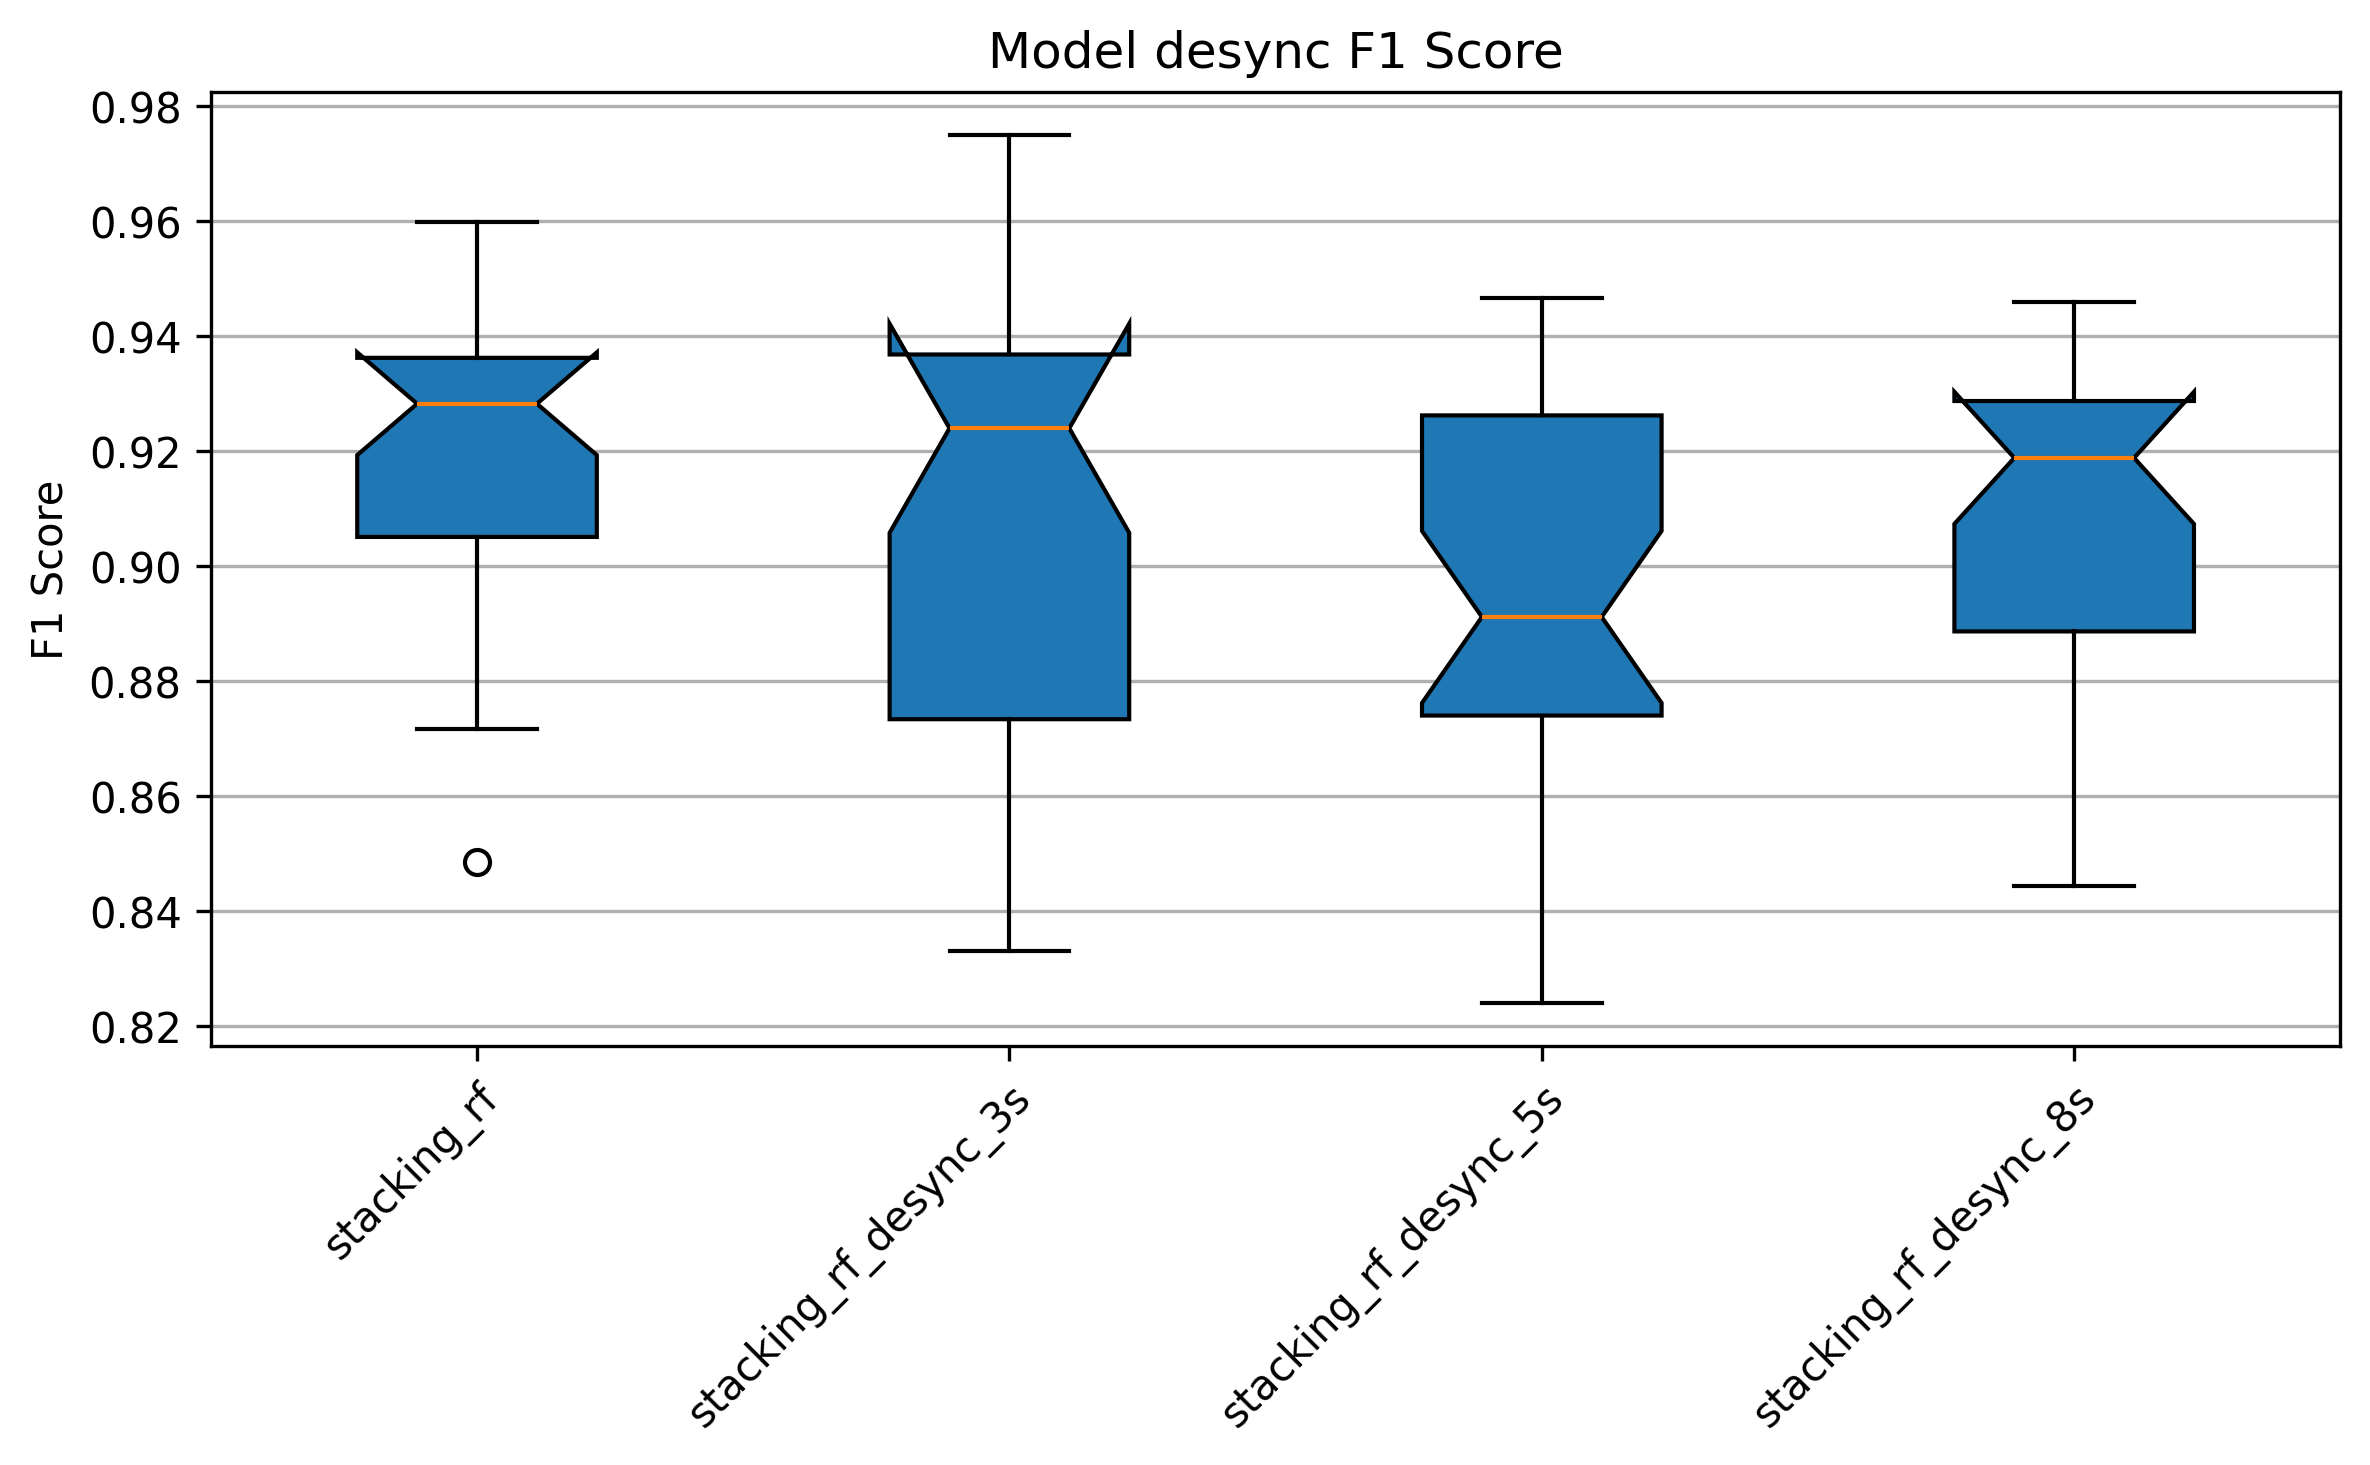
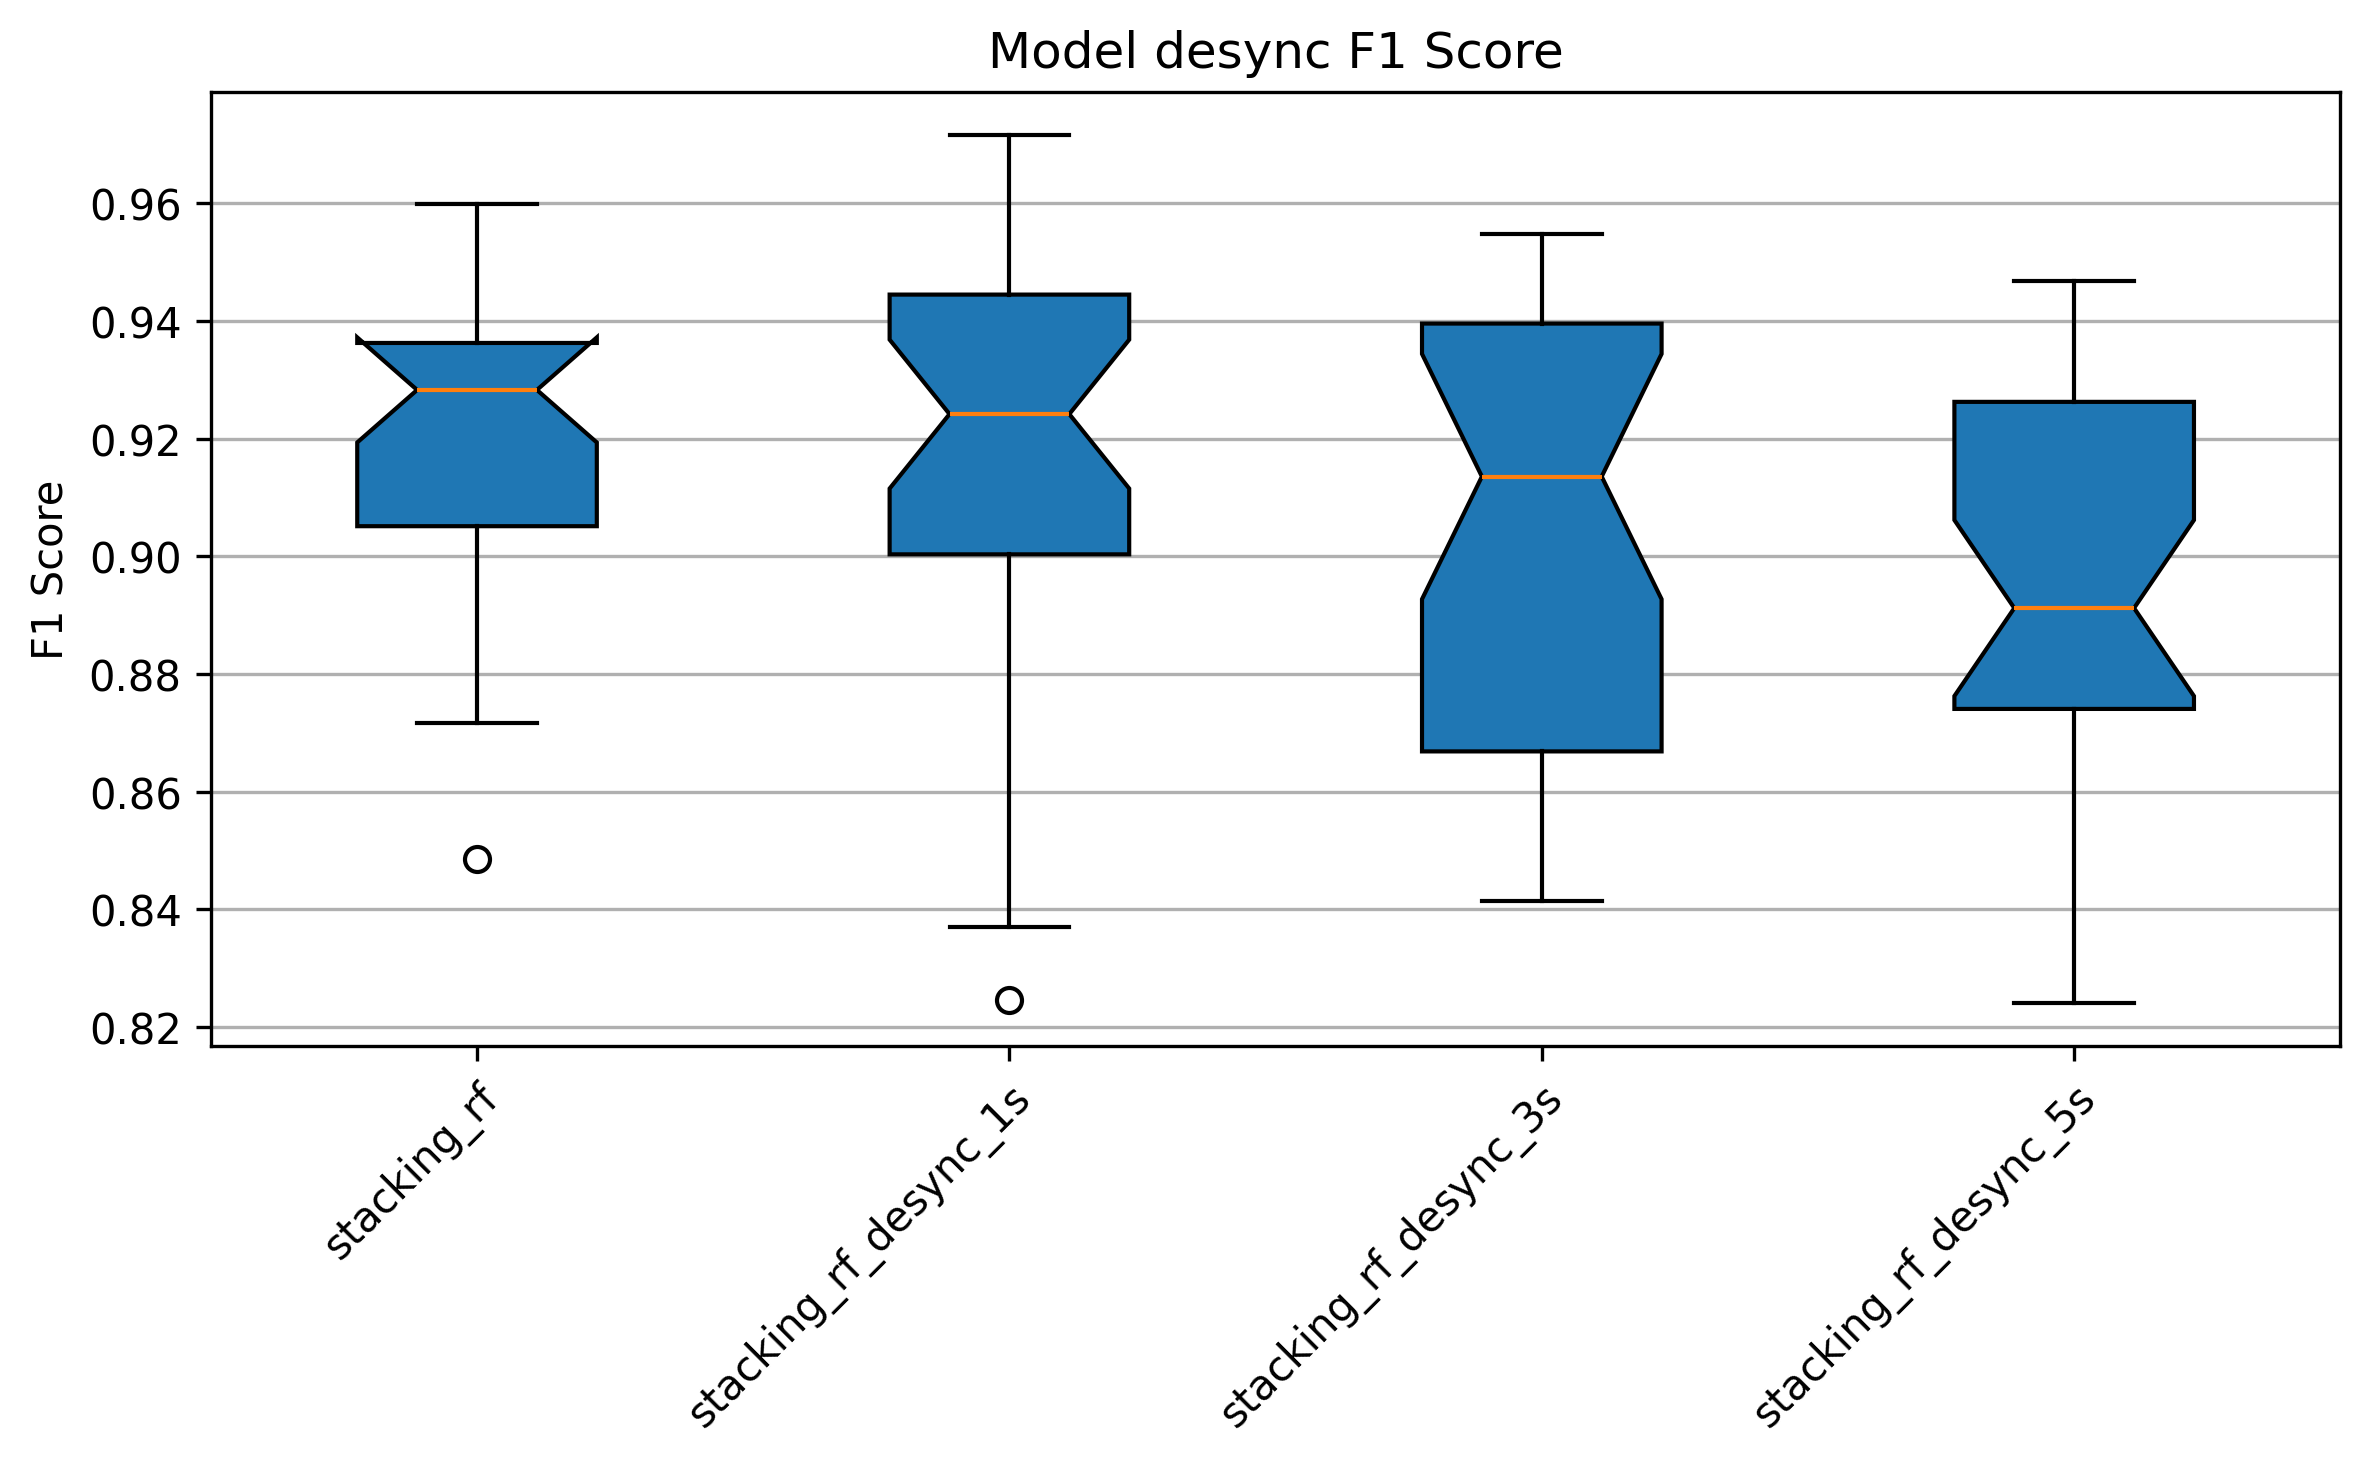
last commit

diff --git a/src/0_plot_whisker_box_grouped_desync.py b/src/0_plot_whisker_box_grouped_desync.py
@@ -4,16 +4,20 @@ import matplotlib.pyplot as plt
 
 print("🟢 Read f1_score desync dataframe for each model and classes")
 stacking_rf_8_data = pd.read_csv('./paper/3_statcking_rf/8_classes/metrics.csv')
+stacking_rf_8_desync_1s_data = pd.read_csv('./paper/3_statcking_rf/8_classes/metrics_desync_1s.csv')
 stacking_rf_8_desync_3s_data = pd.read_csv('./paper/3_statcking_rf/8_classes/metrics_desync_3s.csv')
 stacking_rf_8_desync_5s_data = pd.read_csv('./paper/3_statcking_rf/8_classes/metrics_desync_5s.csv')
-stacking_rf_8_desync_8s_data = pd.read_csv('./paper/3_statcking_rf/8_classes/metrics_desync_8s.csv')
+#stacking_rf_8_desync_7s_data = pd.read_csv('./paper/3_statcking_rf/8_classes/metrics_desync_7s.csv')
+#stacking_rf_8_desync_8s_data = pd.read_csv('./paper/3_statcking_rf/8_classes/metrics_desync_8s.csv')
 
 print("🟢 Create f1_score desync dataframes from stacking random forest with 8 classes")
 df_f1_scores = pd.DataFrame({
     "stacking_rf": stacking_rf_8_data.loc[:29,"meta_model_f1_score"].to_numpy().astype(float),
+    "stacking_rf_desync_1s": stacking_rf_8_desync_1s_data.loc[:29,"meta_model_f1_score"].to_numpy().astype(float),
     "stacking_rf_desync_3s": stacking_rf_8_desync_3s_data.loc[:29,"meta_model_f1_score"].to_numpy().astype(float),
     "stacking_rf_desync_5s": stacking_rf_8_desync_5s_data.loc[:29,"meta_model_f1_score"].to_numpy().astype(float),
-    "stacking_rf_desync_8s": stacking_rf_8_desync_8s_data.loc[:29,"meta_model_f1_score"].to_numpy().astype(float),    
+    #"stacking_rf_desync_7s": stacking_rf_8_desync_7s_data.loc[:29,"meta_model_f1_score"].to_numpy().astype(float),    
+    #"stacking_rf_desync_8s": stacking_rf_8_desync_8s_data.loc[:29,"meta_model_f1_score"].to_numpy().astype(float),    
 })
 
 print("🟢 Save f1_score desync dataframe metrics and mean ± std")